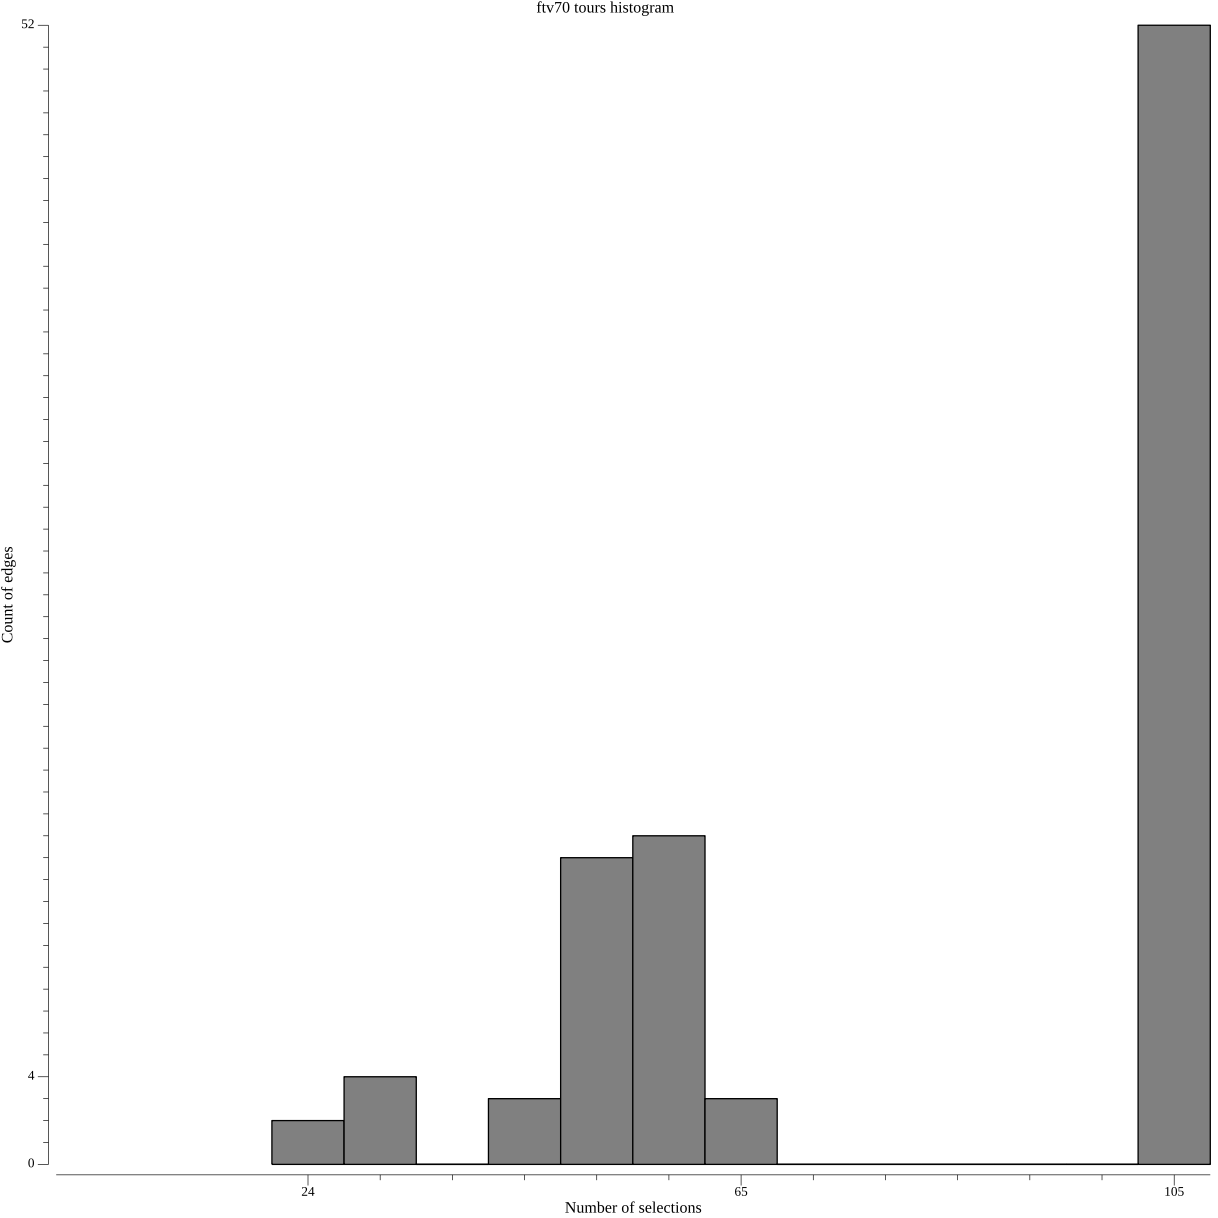
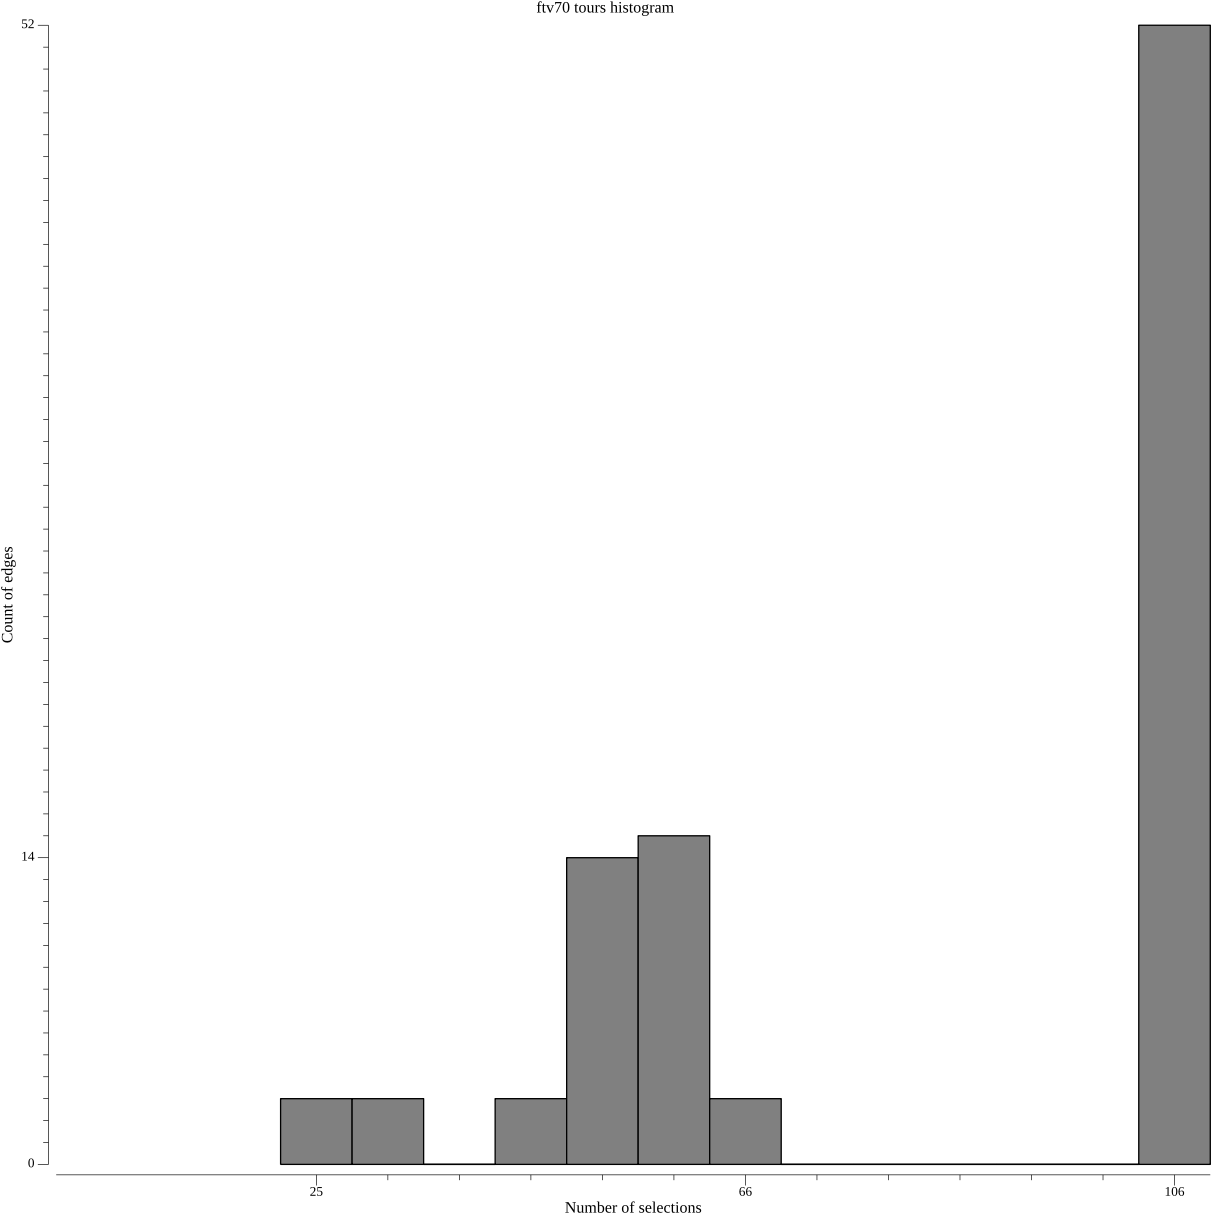
analysis results

diff --git a/results/cmsa_solution_analysis_report.md b/results/cmsa_solution_analysis_report.md
@@ -51,6 +51,6 @@ Main high-CMSA threshold: 0.8
 | ftv170 | 531 | 232 | 0.80 | 0.88 | 65.95 | 65.61 | 44.40 | 82.204316 | 79 | 54 |
 | ftv55 | 111 | 80 | 2.60 | 2.82 | 65.00 | 61.70 | 36.25 | 23.755319 | 28 | 18 |
 | ftv64 | 119 | 92 | 2.21 | 2.38 | 64.13 | 62.07 | 39.13 | 28.065967 | 33 | 22 |
-| ftv70 | 108 | 93 | 1.87 | 2.15 | 67.74 | 59.38 | 40.86 | 31.730511 | 30 | 26 |
+| ftv70 | 109 | 93 | 1.87 | 2.15 | 67.74 | 59.38 | 40.86 | 31.730511 | 30 | 26 |
 | ftv90 | 40 | 113 | 1.38 | 1.72 | 68.14 | 59.77 | 46.02 | 43.320110 | 36 | 35 |
 | td100_1 | 100 | 280 | 2.77 | 1.74 | 27.86 | 56.25 | 19.29 | 20.290179 | 202 | 42 |

diff --git a/results/cycle_cover_analysis_report.md b/results/cycle_cover_analysis_report.md
@@ -55,6 +55,6 @@ Main high-CMSA threshold: 1.0
 | ftv170 | 531 | 232 | 4.50 | 20 | 81.87 | 43.27 | 82.46 | 60.78 | 76.24 | 33.19 | 90.54 | 28.88 | 0.143029 | 0.043103 |
 | ftv55 | 111 | 80 | 10.76 | 9 | 80.36 | 41.07 | 73.21 | 51.25 | 80.00 | 30.00 | 86.96 | 25.00 | 0.069565 | 0.050000 |
 | ftv64 | 119 | 92 | 6.42 | 13 | 75.38 | 41.54 | 73.85 | 52.17 | 76.32 | 31.52 | 92.59 | 27.17 | 0.162768 | 0.043478 |
-| ftv70 | 108 | 93 | 9.44 | 9 | 81.69 | 45.07 | 70.42 | 53.76 | 71.43 | 32.26 | 78.12 | 26.88 | 0.066964 | 0.053763 |
+| ftv70 | 109 | 93 | 9.44 | 9 | 81.69 | 45.07 | 70.42 | 53.76 | 71.43 | 32.26 | 78.12 | 26.88 | 0.066964 | 0.053763 |
 | ftv90 | 40 | 113 | 6.33 | 11 | 81.32 | 42.86 | 82.42 | 66.37 | 73.08 | 33.63 | 89.74 | 30.97 | 0.166667 | 0.026549 |
 | td100_1 | 100 | 280 | 0.00 | 8 | 33.66 | 24.75 | 97.03 | 35.00 | 57.32 | 16.79 | 100.00 | 8.93 | 0.426829 | 0.078571 |